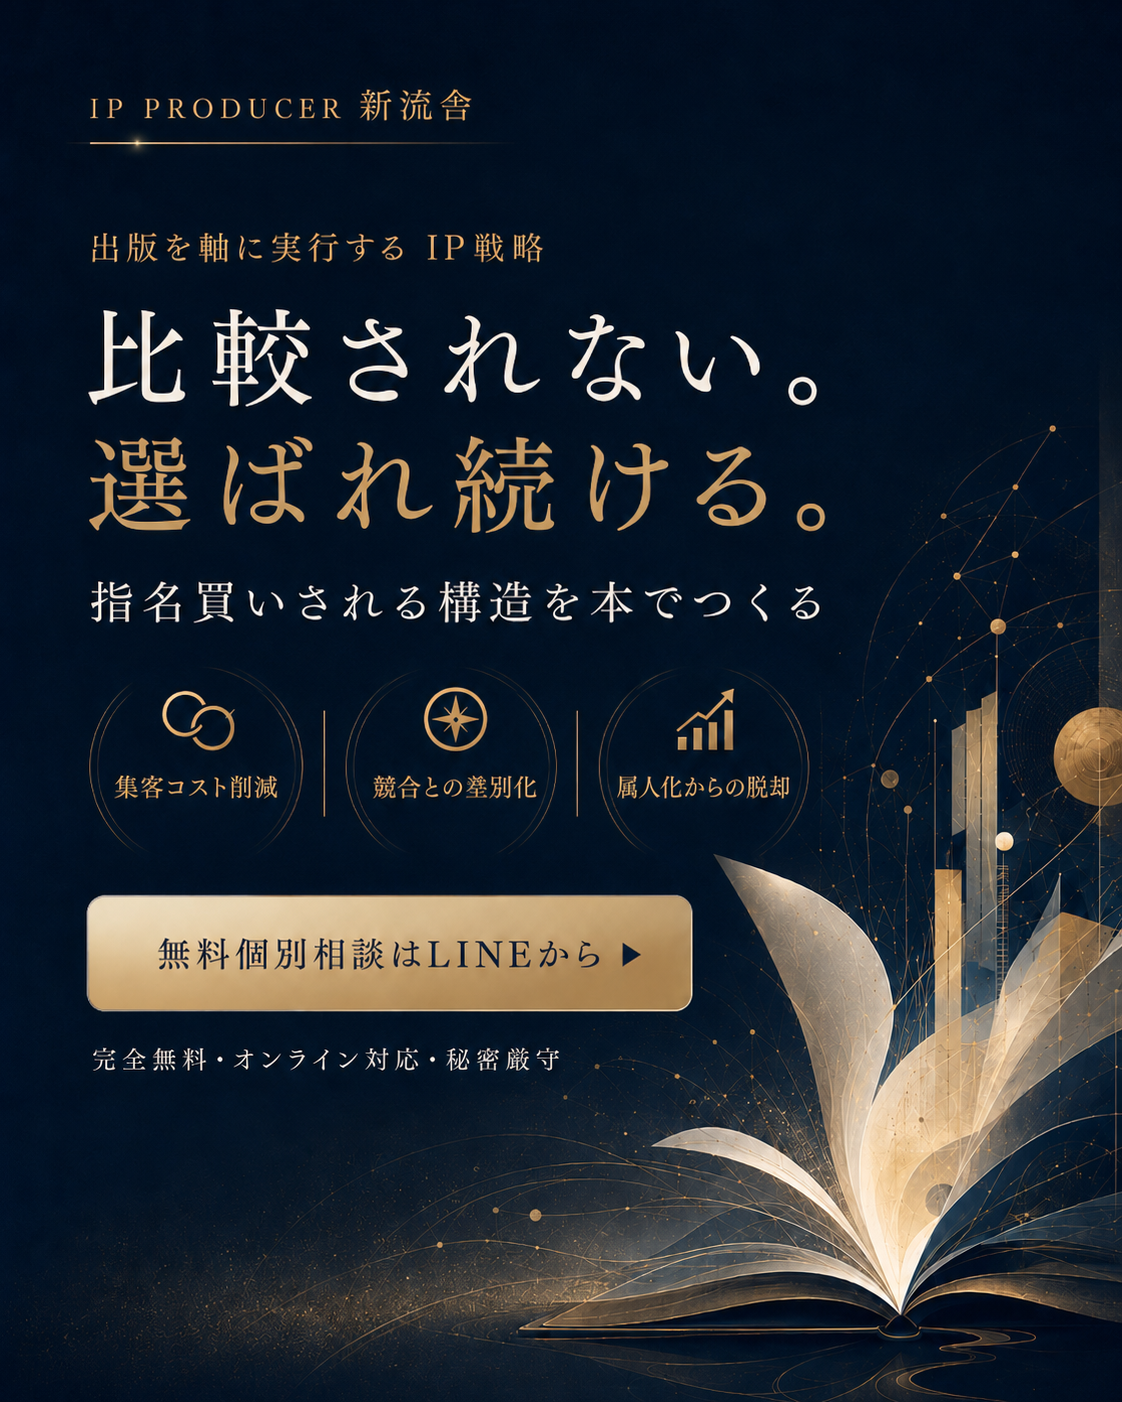
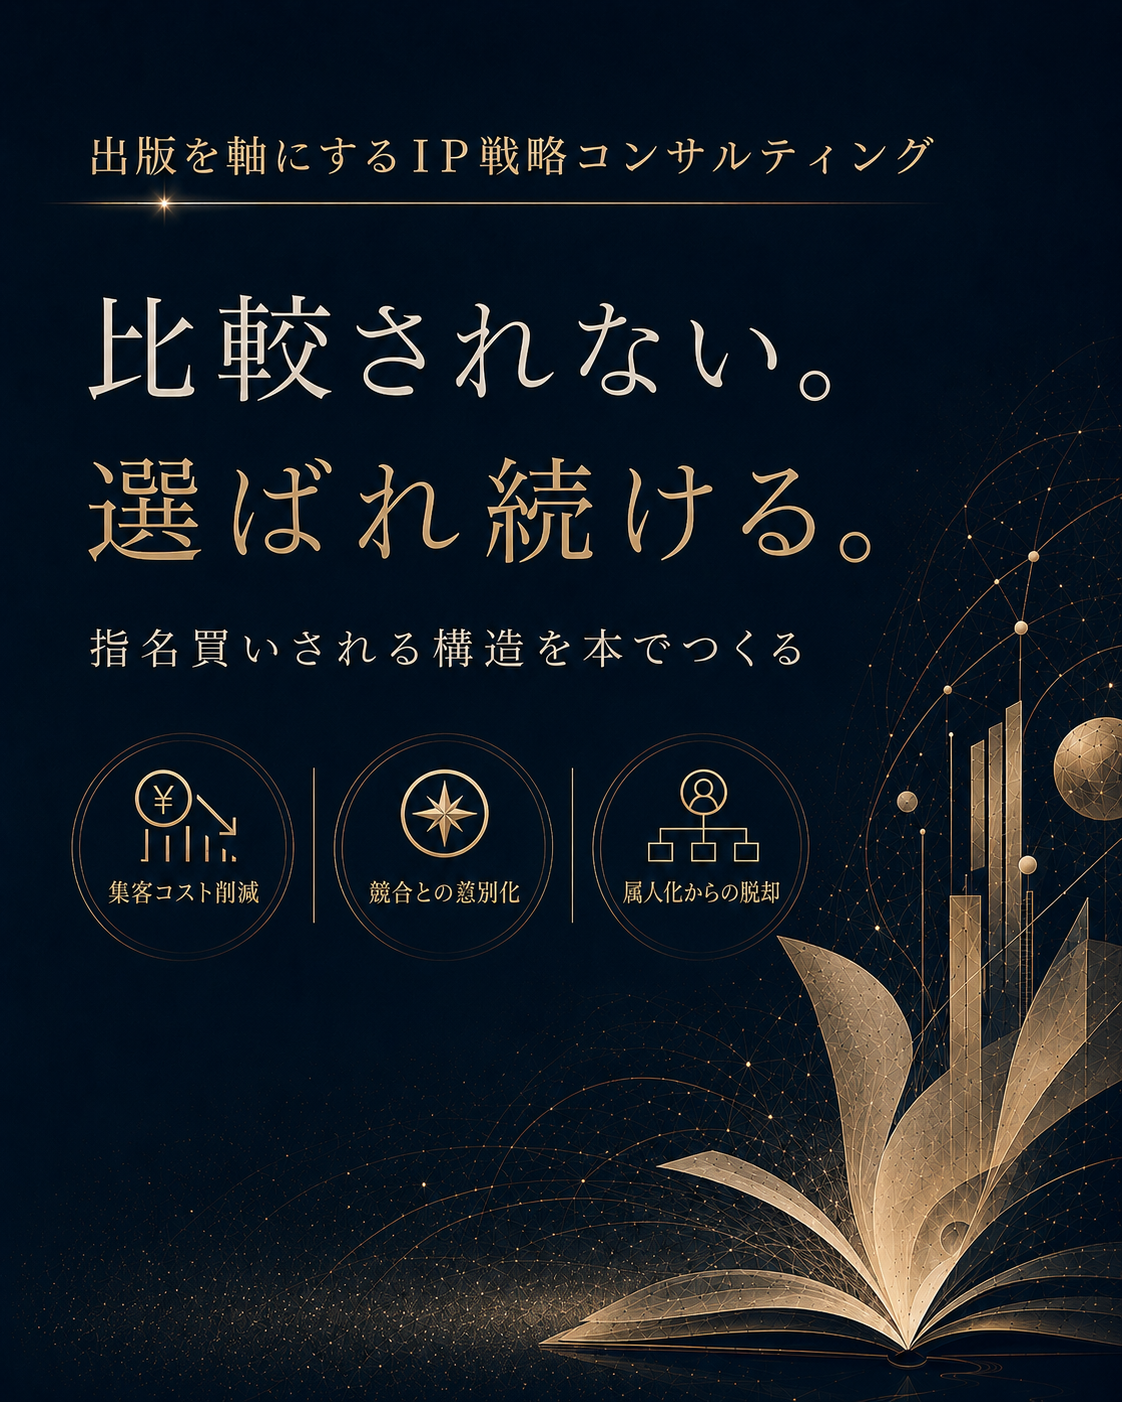
v12: replace hero image

diff --git a/v12/index.html b/v12/index.html
@@ -479,7 +479,7 @@
 
 <!-- HERO -->
 <section class="hero">
-  <img src="hero.png" alt="比較されない。選ばれ続ける。｜新流舎 出版IPプロデュース">
+  <img src="hero.png?v=2" alt="比較されない。選ばれ続ける。｜新流舎 出版IPプロデュース">
 </section>
 
 <div class="divider"></div>
